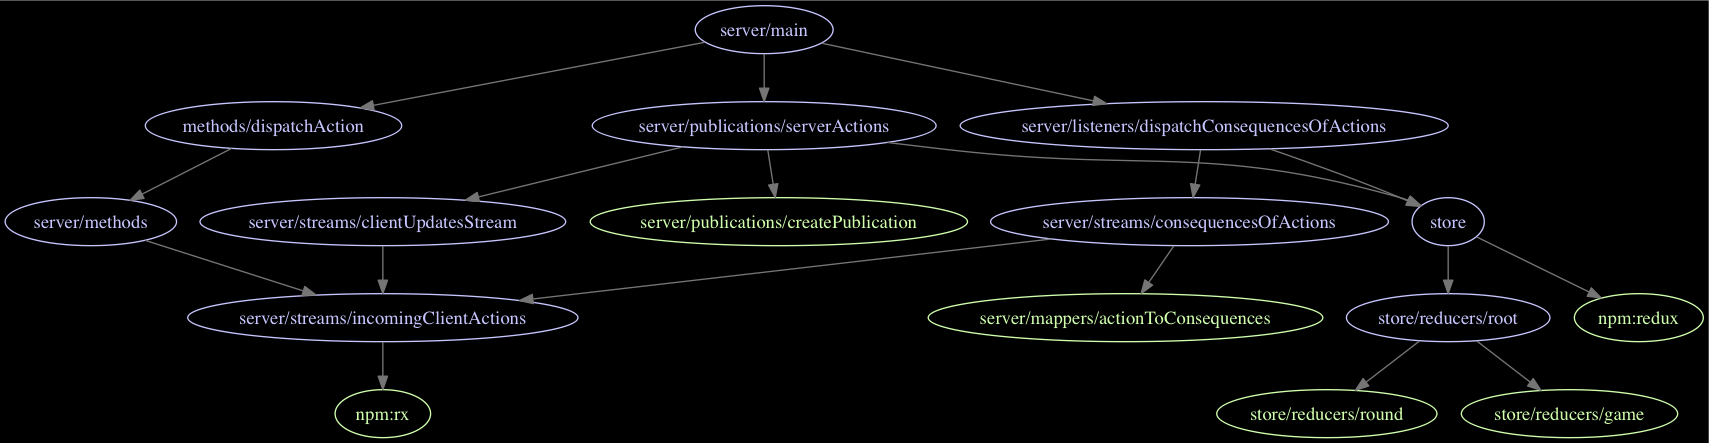
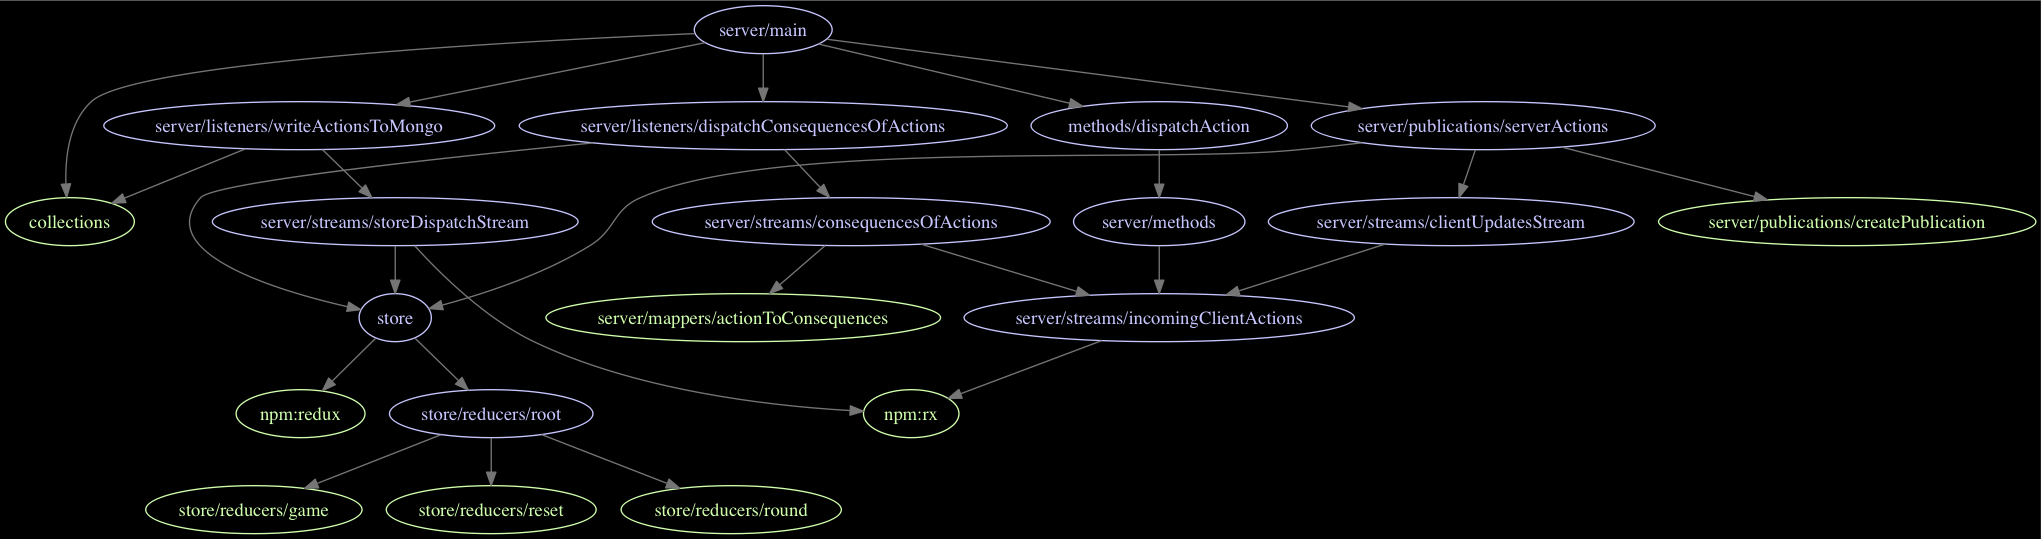
Write to mongo after actions have been sent upstream

diff --git a/imports/store/reducers/root.js b/imports/store/reducers/root.js
@@ -5,6 +5,7 @@ import { combineReducers as createStateTree } from 'redux-immutable'
 import { createReducer } from 'redux-act'
 import * as Game from './game'
 import * as Round from './round'
+import { resetAction, resetReducer } from './reset'
 
 // The magic! We define our state, and delegate control over its parts
 // to corresponding reducers
@@ -13,18 +14,9 @@ let stateReducer = createStateTree({
   round: createReducer(Round.actionReducers, fromJS(Round.initialState))
 })
 
-let reducer = stateReducer
-
-if (Meteor.isClient) {
-  // the client can allow its state to be fully reset
-  let { resetAction, resetReducer } = require('./client/reset')
-
-  // intercept initial 'global' actions; allow others to be handled normally
-  reducer = createDefaultedReducer(
-    {
-      [resetAction]: resetReducer
-    }, stateReducer)
-}
+let reducer = createDefaultedReducer({
+  [resetAction]: resetReducer
+}, stateReducer)
 
 function createDefaultedReducer (actions, defaultReducer) {
   return (state, action) => {

diff --git a/imports/server/listeners/writeActionsToMongo.js b/imports/server/listeners/writeActionsToMongo.js
@@ -1,0 +1,23 @@
+import { Meteor } from 'meteor/meteor'
+import { Games } from '../../collections/collections'
+
+import storeDispatchStream from '../streams/storeDispatchStream'
+
+if (Games.find().count() === 0) {
+  Games.insert({})
+}
+
+let singletonGame = Games.findOne()
+let singletonId = singletonGame && singletonGame._id
+
+// We want latencies from this listener not to block other listeners
+// - A Meteor.sleep(1500) should not delay anything being sent upstream
+storeDispatchStream.subscribe(state => Meteor.defer(() => {
+  console.log('Updating mongo with new state...')
+
+  Meteor.sleep(1500)
+  Games.update(singletonId, state)
+
+  console.log('Mongo updated', state, singletonId)
+}))
+

diff --git a/imports/server/main.js b/imports/server/main.js
@@ -1,4 +1,7 @@
 import { dispatchAction } from '../methods/dispatchAction'
 import serverActions from './publications/serverActions'
 
+import * as Collections from '../collections/collections'
+
 import dispatchConsequencesOfActions from './listeners/dispatchConsequencesOfActions'
+import writeActionsToMongo from './listeners/writeActionsToMongo'

diff --git a/imports/server/streams/storeDispatchStream.js b/imports/server/streams/storeDispatchStream.js
@@ -1,0 +1,10 @@
+import Rx from 'rx'
+import store from '../../store/store'
+
+let state$ = new Rx.Subject
+
+store.subscribe(() => {
+  state$.onNext(store.getState())
+})
+
+export default state$.asObservable().map(s => s.toJS())

diff --git a/imports/collections/collections.js b/imports/collections/collections.js
@@ -1,0 +1,3 @@
+import { Mongo } from 'meteor/mongo'
+
+export const Games = new Mongo.Collection('Games')

diff --git a/scripts/tweak-deps.rb b/scripts/tweak-deps.rb
@@ -17,11 +17,11 @@ deps = JSON.parse(STDIN.read)
 #     "store/store":["../node_modules/redux/lib/index","store/reducers/root"]
 # }
 
-noMeteor = Proc.new { |dep| 
+noMeteor = Proc.new { |dep|
     dep.sub '../meteor/', ''
 }
 
-noNodeMods = Proc.new { |dep| 
+noNodeMods = Proc.new { |dep|
     newdep = dep.dup
     newdep.sub! /.*node_modules\//, 'npm:'
     newdep.sub! /\/lib\/index$/, ''
@@ -37,7 +37,7 @@ double = Proc.new do |dep|
     dep.sub %r{(.*)/(\1)$}, '\1'
 end
 
-tweaked = deps.inject({}){ |all, (mod, deps)| 
+tweaked = deps.inject({}){ |all, (mod, deps)|
     newKey = double.call(mod)
 
     all[newKey] = deps.map do |dep|
@@ -49,7 +49,6 @@ tweaked = deps.inject({}){ |all, (mod, deps)|
 
 # invisible ones
 tweaked['methods/dispatchAction'] << 'client/methods' << 'server/methods'
-tweaked['store/reducers/root'] << 'store/reducers/client/reset'
 
 exclude && tweaked.each{ |mod, deps| deps.reject!{ |d| d.include?(exclude) } }
 
